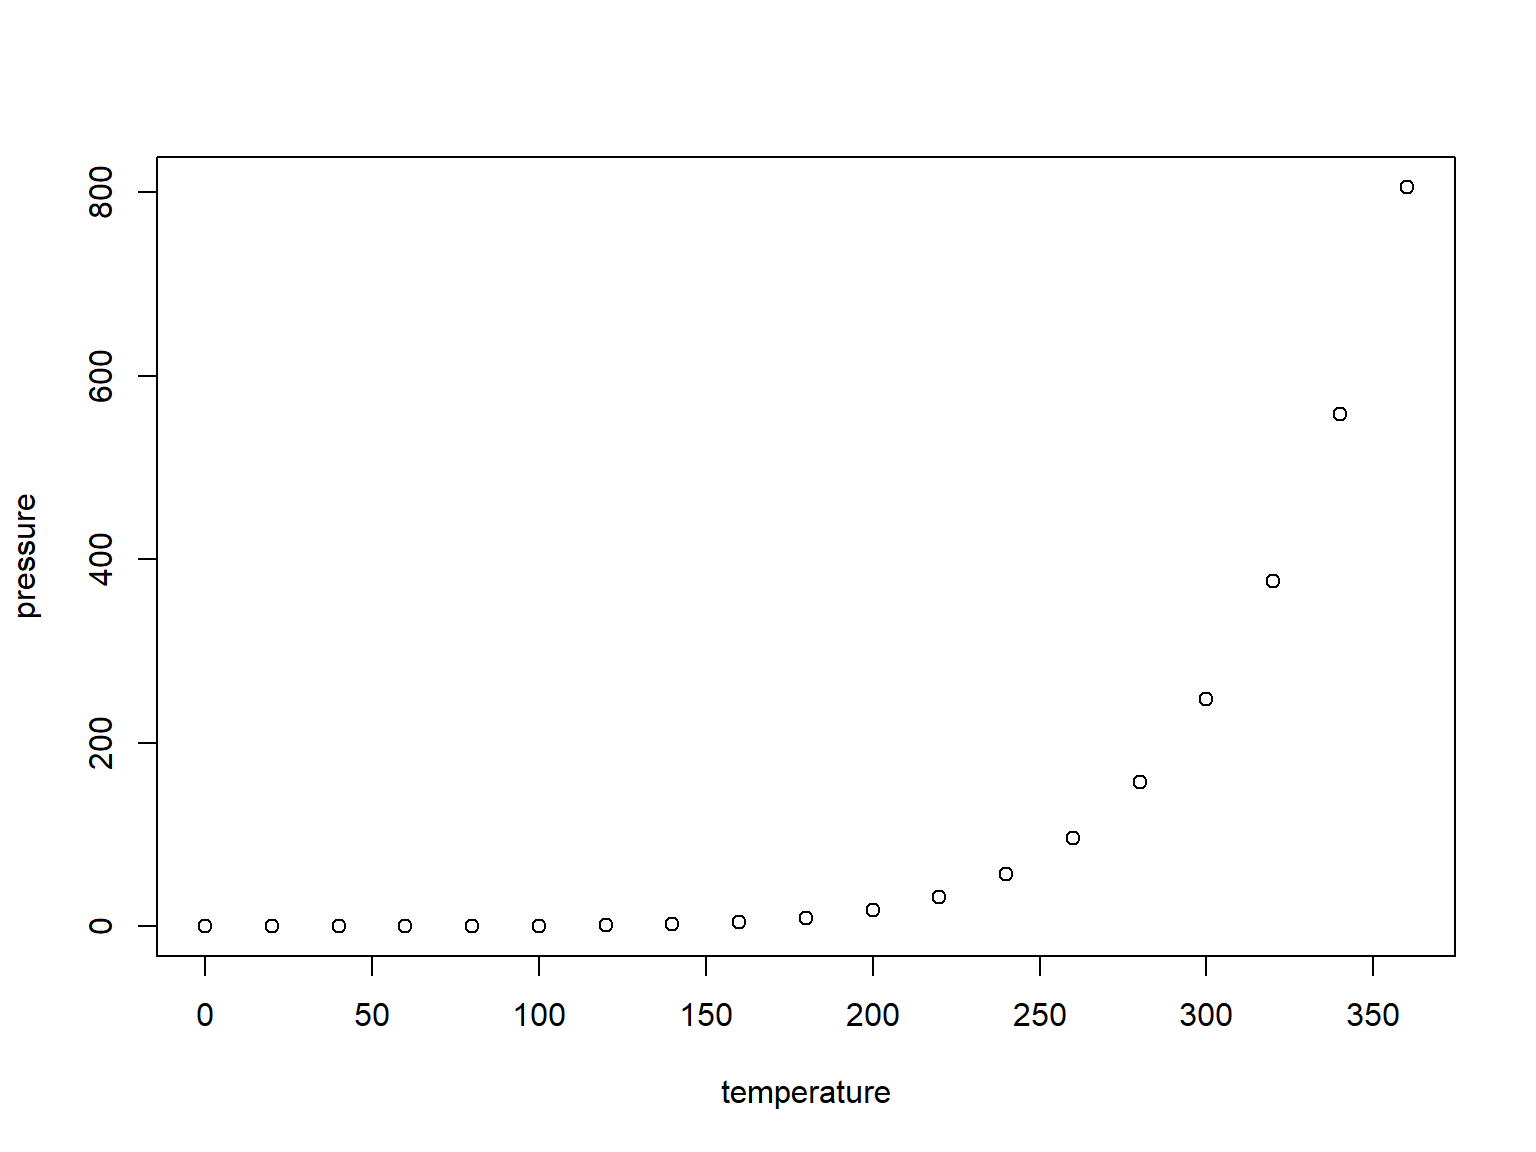
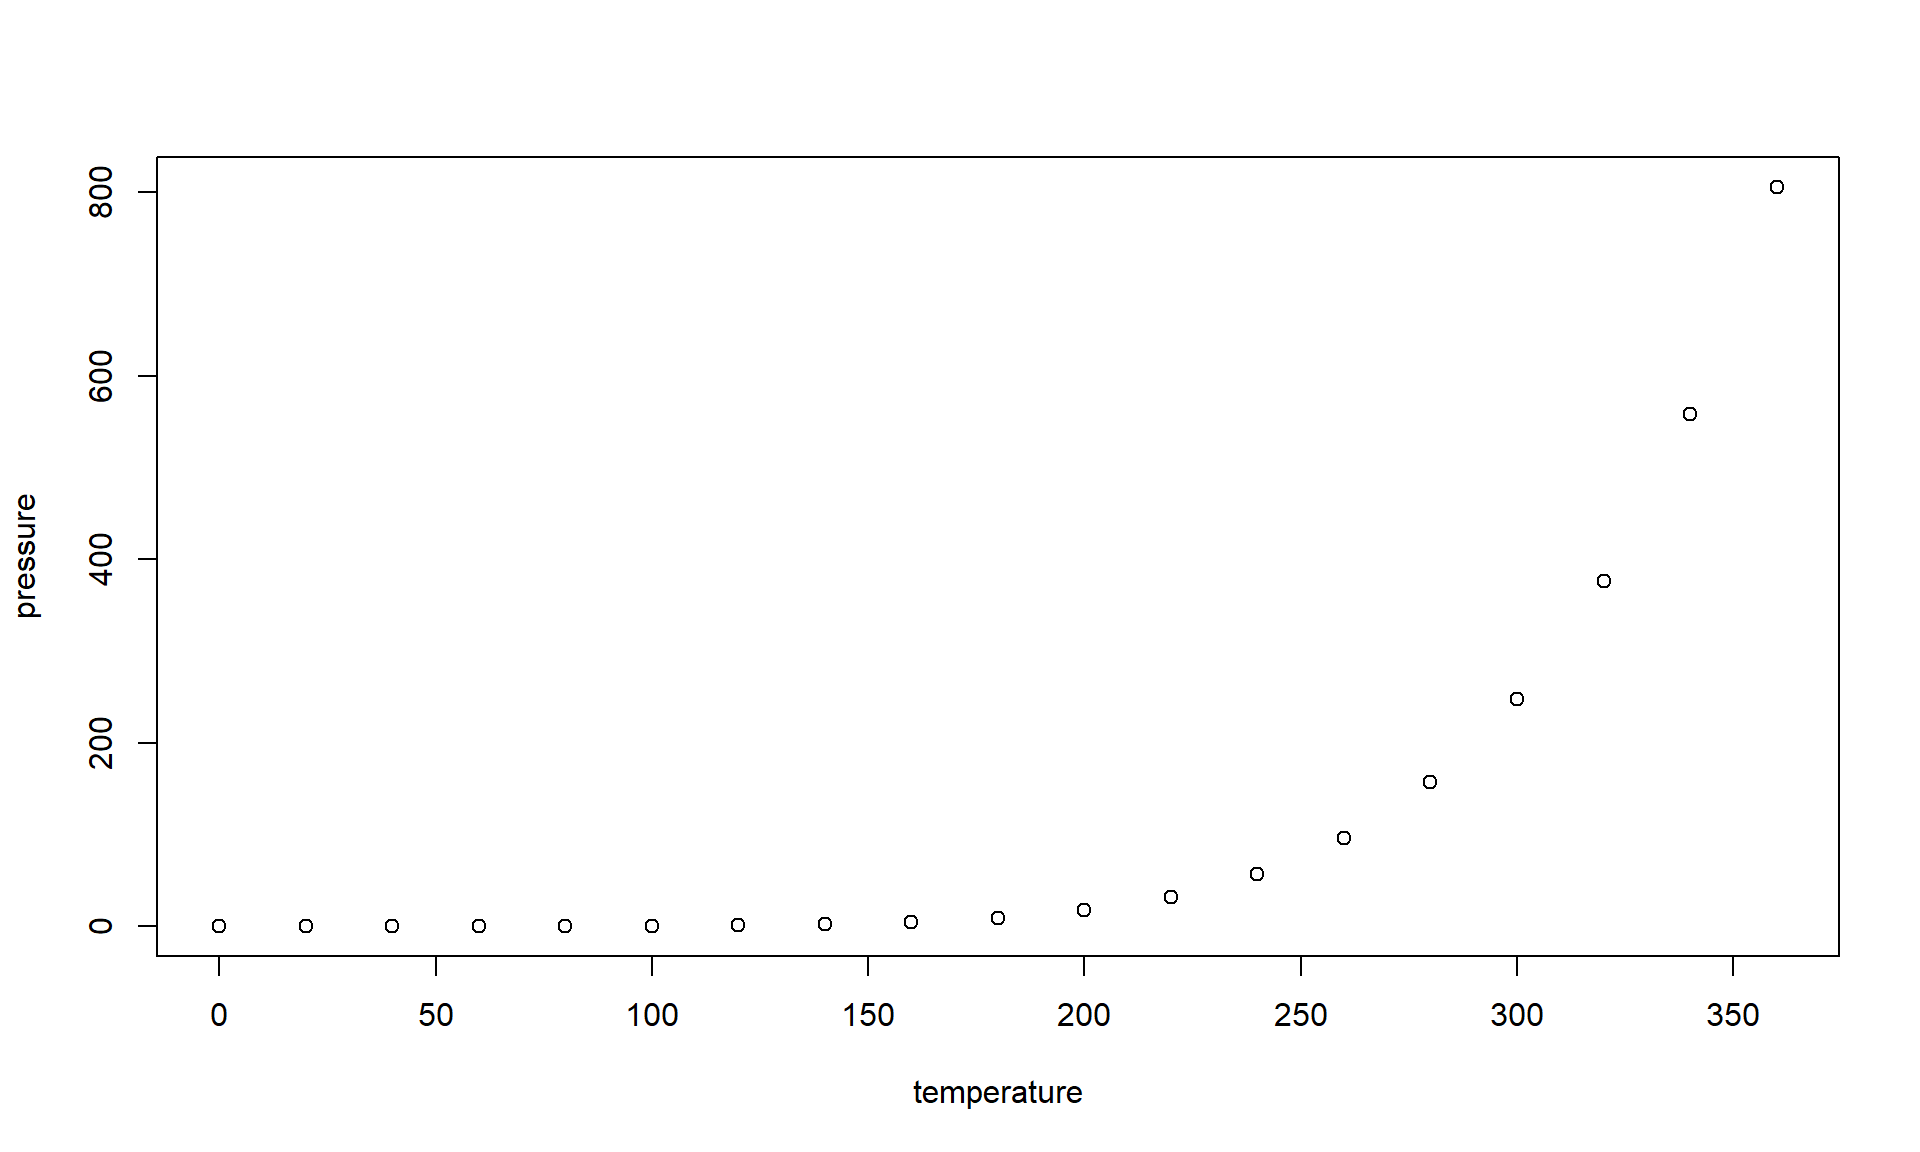
awd awda
d awda wd  awadw awd ad ad awd

diff --git a/docs/_site/week_1.html b/docs/_site/week_1.html
@@ -6,6 +6,8 @@
   <meta http-equiv="Content-Type" content="text/html; charset=utf-8" />
   <meta http-equiv="Content-Style-Type" content="text/css" />
   <meta name="generator" content="pandoc" />
+  <meta name="author" content="Uğur Aytun" />
+  <meta name="date" content="2025-02-09" />
   <title>Introduction to Data Science</title>
   <style type="text/css">
     code{white-space: pre-wrap;}
@@ -151,10 +153,11 @@ code span.wa { color: #60a0b0; font-weight: bold; font-style: italic; } /* Warni
 <body>
 <div class="slide titlepage">
   <h1 class="title">Introduction to Data Science</h1>
+  <h1 class="subtitle">(ECON 413)</h1>
   <p class="author">
-
+Uğur Aytun
   </p>
-  <p class="date">Uğur Aytun</p>
+  <p class="date">2025-02-09</p>
 </div>
 <div id="r-markdown" class="slide section level2">
 <h1>R Markdown</h1>
@@ -187,7 +190,8 @@ embedded R code chunks within the document.</p>
 </div>
 <div id="slide-with-plot" class="slide section level2">
 <h1>Slide with Plot</h1>
-<p><img src="week_1_files/figure-slidy/pressure-1.png" width="768" /></p>
+<div class="sourceCode" id="cb3"><pre class="sourceCode r"><code class="sourceCode r"><span id="cb3-1"><a href="#cb3-1" tabindex="-1"></a><span class="fu">plot</span>(pressure)</span></code></pre></div>
+<p><img src="week_1_files/figure-slidy/pressure-1.png" width="960" /></p>
 </div>
 
   <!-- dynamically load mathjax for compatibility with self-contained -->

diff --git a/docs/week_1.html b/docs/week_1.html
@@ -6,6 +6,8 @@
   <meta http-equiv="Content-Type" content="text/html; charset=utf-8" />
   <meta http-equiv="Content-Style-Type" content="text/css" />
   <meta name="generator" content="pandoc" />
+  <meta name="author" content="Uğur Aytun" />
+  <meta name="date" content="2025-02-09" />
   <title>Introduction to Data Science</title>
   <style type="text/css">
     code{white-space: pre-wrap;}
@@ -151,10 +153,11 @@ code span.wa { color: #60a0b0; font-weight: bold; font-style: italic; } /* Warni
 <body>
 <div class="slide titlepage">
   <h1 class="title">Introduction to Data Science</h1>
+  <h1 class="subtitle">(ECON 413)</h1>
   <p class="author">
-
+Uğur Aytun
   </p>
-  <p class="date">Uğur Aytun</p>
+  <p class="date">2025-02-09</p>
 </div>
 <div id="r-markdown" class="slide section level2">
 <h1>R Markdown</h1>
@@ -187,7 +190,8 @@ embedded R code chunks within the document.</p>
 </div>
 <div id="slide-with-plot" class="slide section level2">
 <h1>Slide with Plot</h1>
-<p><img src="week_1_files/figure-slidy/pressure-1.png" width="768" /></p>
+<div class="sourceCode" id="cb3"><pre class="sourceCode r"><code class="sourceCode r"><span id="cb3-1"><a href="#cb3-1" tabindex="-1"></a><span class="fu">plot</span>(pressure)</span></code></pre></div>
+<p><img src="week_1_files/figure-slidy/pressure-1.png" width="960" /></p>
 </div>
 
   <!-- dynamically load mathjax for compatibility with self-contained -->
